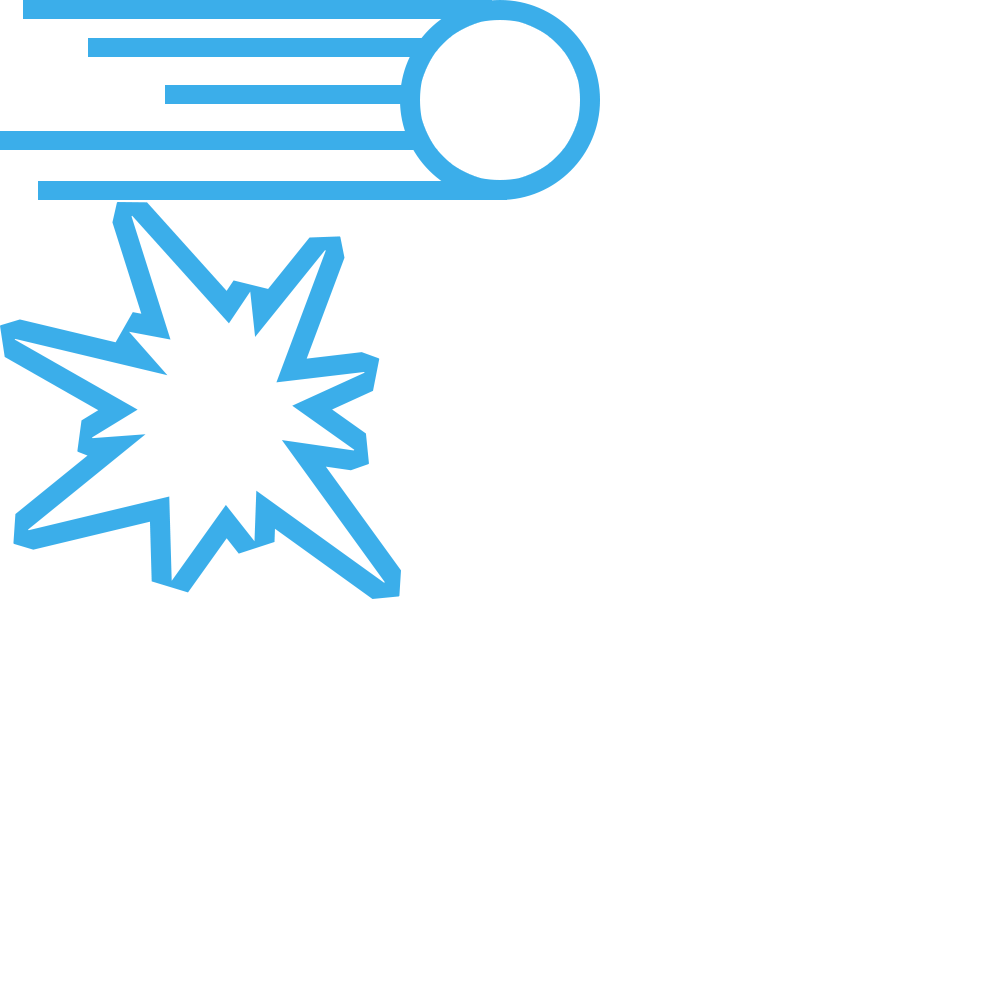
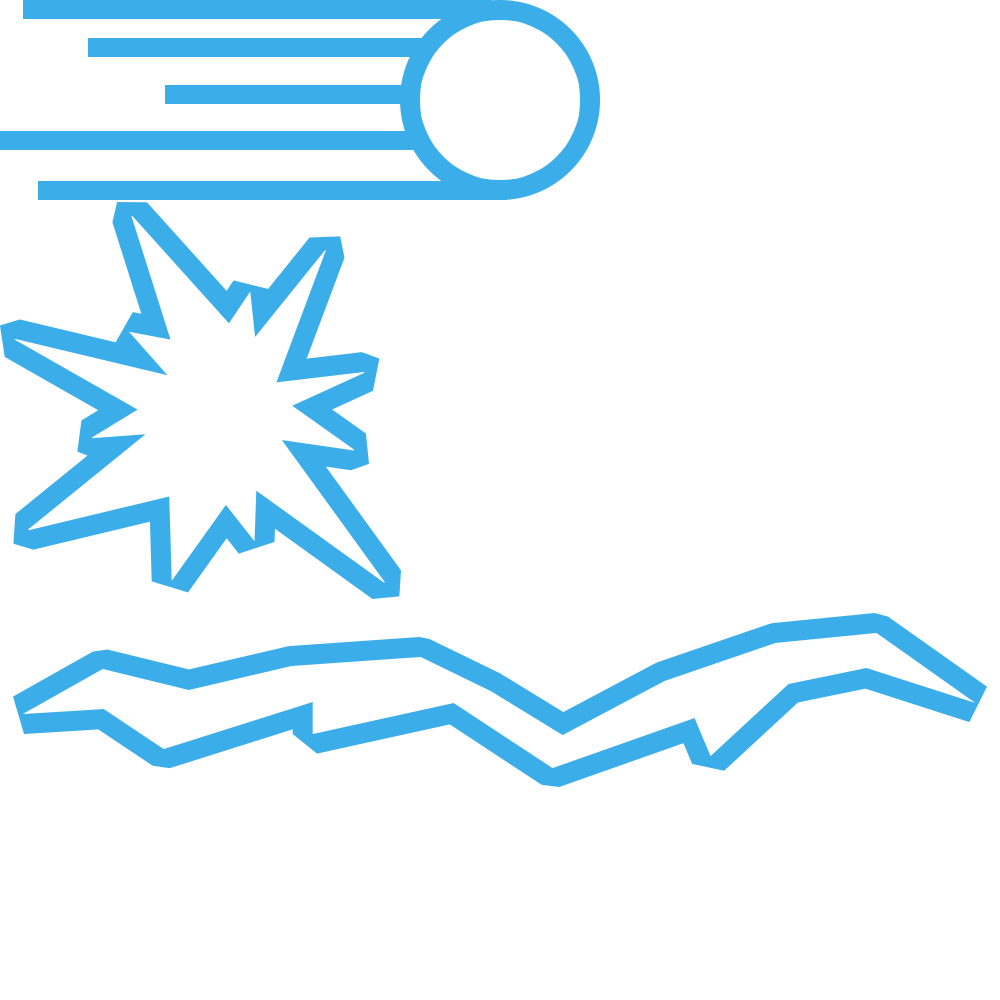
Bomb explosion effects added.

Changed region(s): [[0.0, 0.589, 0.992, 0.806]]

diff --git a/app/game/directive.js b/app/game/directive.js
@@ -449,17 +449,21 @@ Game.directive('game', ['$window', 'random', '$timeout', 'Swap', function($windo
           
           for(var j = 0; j < chain.candies.length; j++) {
             var candy = chain.candies[j];
-            
+
             // The candy can be part of two chains but we only want to animate once.
             if(candy) {
-              
+
               if(candy.bonusType) {
                 // this is a special candy, add effect
-                animatePowerupExplode(candy);
+                if(candy.bonusType == 4) {
+                  animateBombExplode(candy, chain);
+                } else {
+                  animatePowerupExplode(candy);
+                }
               }
-              
+
               addSpriteEffect(candy.x, candy.y);
-              
+
               createjs.Tween.get(candy)
               .to(
                 {scaleX: 0, scaleY: 0, x: candy.x + candyDestinationSize/2, y: candy.y + candyDestinationSize/2},
@@ -467,7 +471,8 @@ Game.directive('game', ['$window', 'random', '$timeout', 'Swap', function($windo
                 createjs.Ease.sineOut)
               .call(animationComplete(candy));
             }
-          }
+          } 
+          
         }
         
         $timeout(animComplete, duration);
@@ -877,6 +882,81 @@ Game.directive('game', ['$window', 'random', '$timeout', 'Swap', function($windo
             effectsLayer.removeChild(wooshDown);
             // anim end
           });
+        }
+        
+      }
+      
+      //-----------------------------------------------------------------------
+      // Bomb explosion
+      //-----------------------------------------------------------------------
+      
+      var animateBombExplode = function(powerup, chain) {
+        var x = 0;
+        var y = CANDY_SOURCE_SIZE * 3;
+        var width = CANDY_SOURCE_SIZE * 4;
+        var height = CANDY_SOURCE_SIZE;
+        
+        var powerupCenterX = powerup.x + candyDestinationSize / 2;
+        var powerupCenterY = powerup.y + candyDestinationSize / 2;
+        
+        var deltaY = 0;
+        var deltaX = 0;
+        var angle = 0;
+
+        var distance = 0;
+        
+        var animationComplete = function(effect) {
+          return function() {
+            effectsLayer.removeChild(effect);
+            // anim complete.
+          }
+        }
+        
+        for(var i in chain.candies) {
+          var candy = chain.candies[i];
+          
+          if (candy !== powerup) {
+            deltaY = candy.y - powerup.y;
+            deltaX = candy.x - powerup.x;
+
+            angle = Math.atan2(deltaY, deltaX) * 180 / Math.PI;
+
+            distance = Math.sqrt(Math.pow(powerup.x - candy.x, 2) + Math.pow(powerup.y - candy.y, 2));
+
+            var boomWoosh = createSpriteforEffect(
+              'boomWoosh', 
+              'effectsAtlas', 
+              new createjs.Rectangle(x, y, width, height),
+              powerupCenterX,
+              powerupCenterY,
+              candyScale * 0.3,
+              candyScale * 0.3,
+              0,
+              angle
+            );
+            
+            boomWoosh.regX = 0;
+
+            effectsLayer.addChild(boomWoosh);
+            
+            var duration = random.range(50, 200);
+
+            createjs.Tween.get(boomWoosh)
+            .to(
+              {scaleX: 0, scaleY: 0, alpha: 0},
+              duration,
+              createjs.Ease.quadIn)
+            .to(
+              {scaleX: (distance / candyDestinationSize / 4) * candyScale, scaleY: candyScale, alpha: 1},
+              duration,
+              createjs.Ease.quadIn)
+            .to(
+              {scaleX: 0, scaleY: 0, alpha: 0},
+              duration,
+              createjs.Ease.quadIn)
+            .call(animationComplete(boomWoosh));
+          }
+          
         }
       }
       
